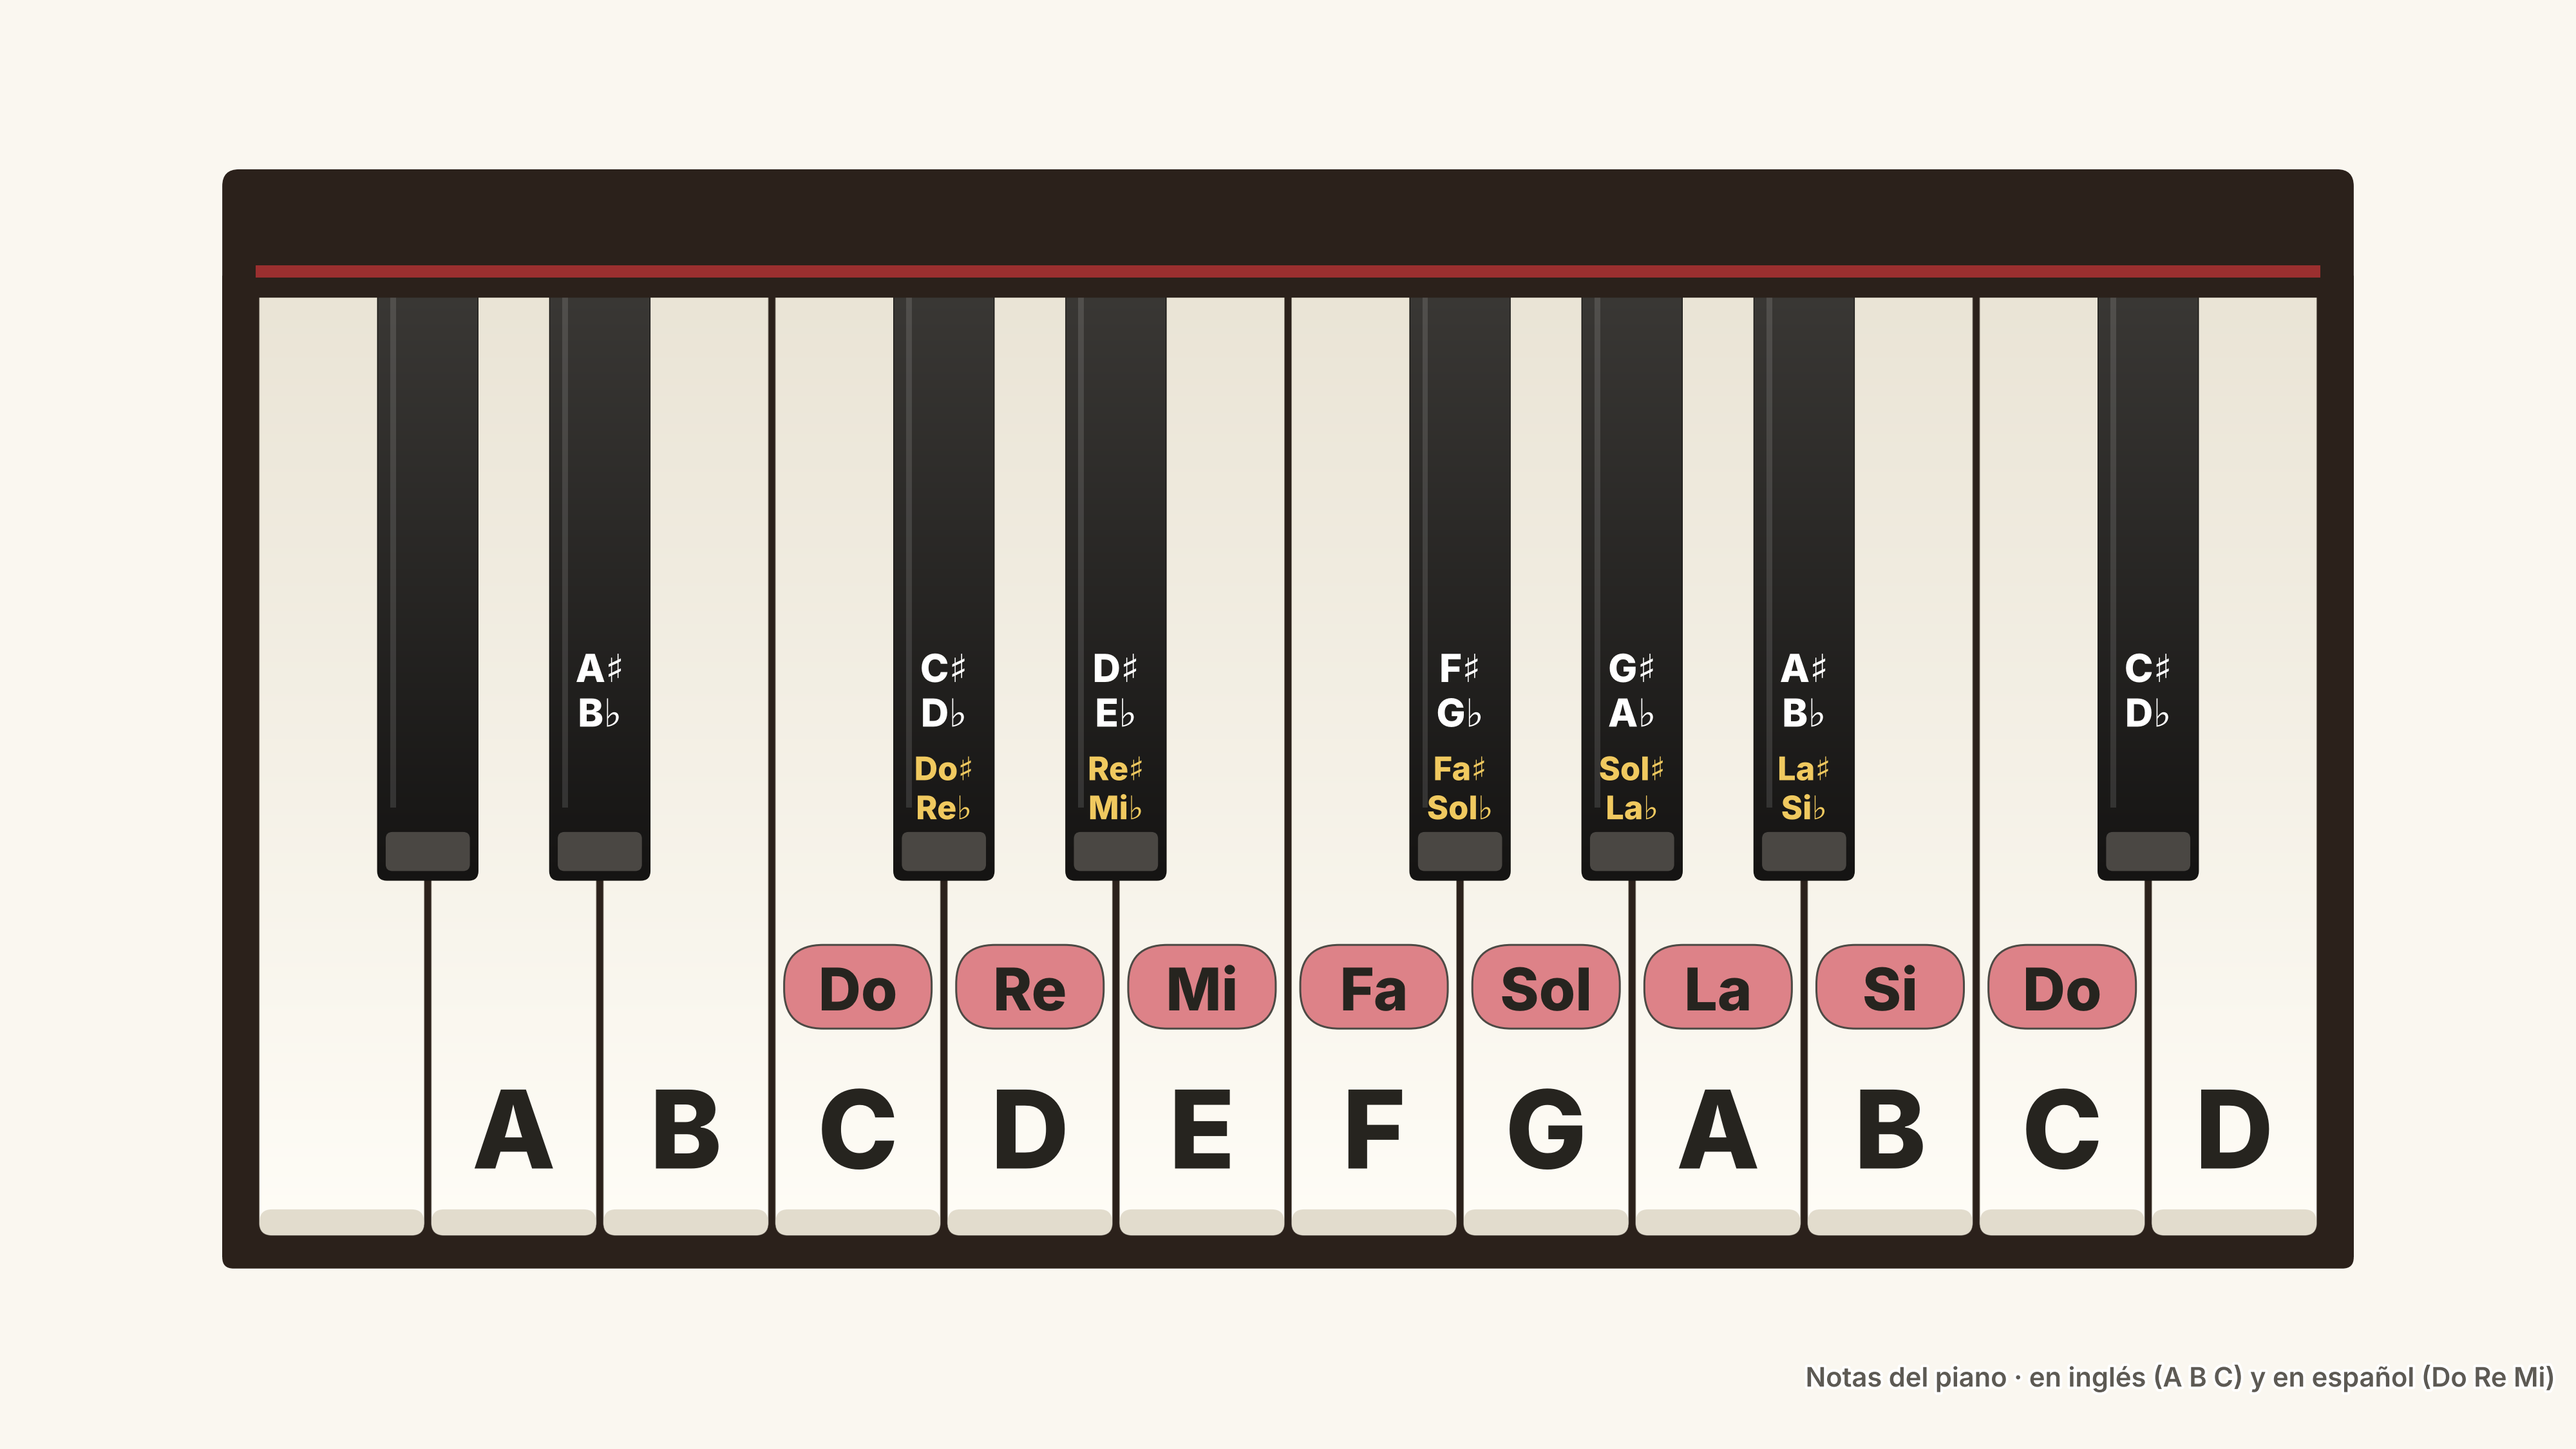
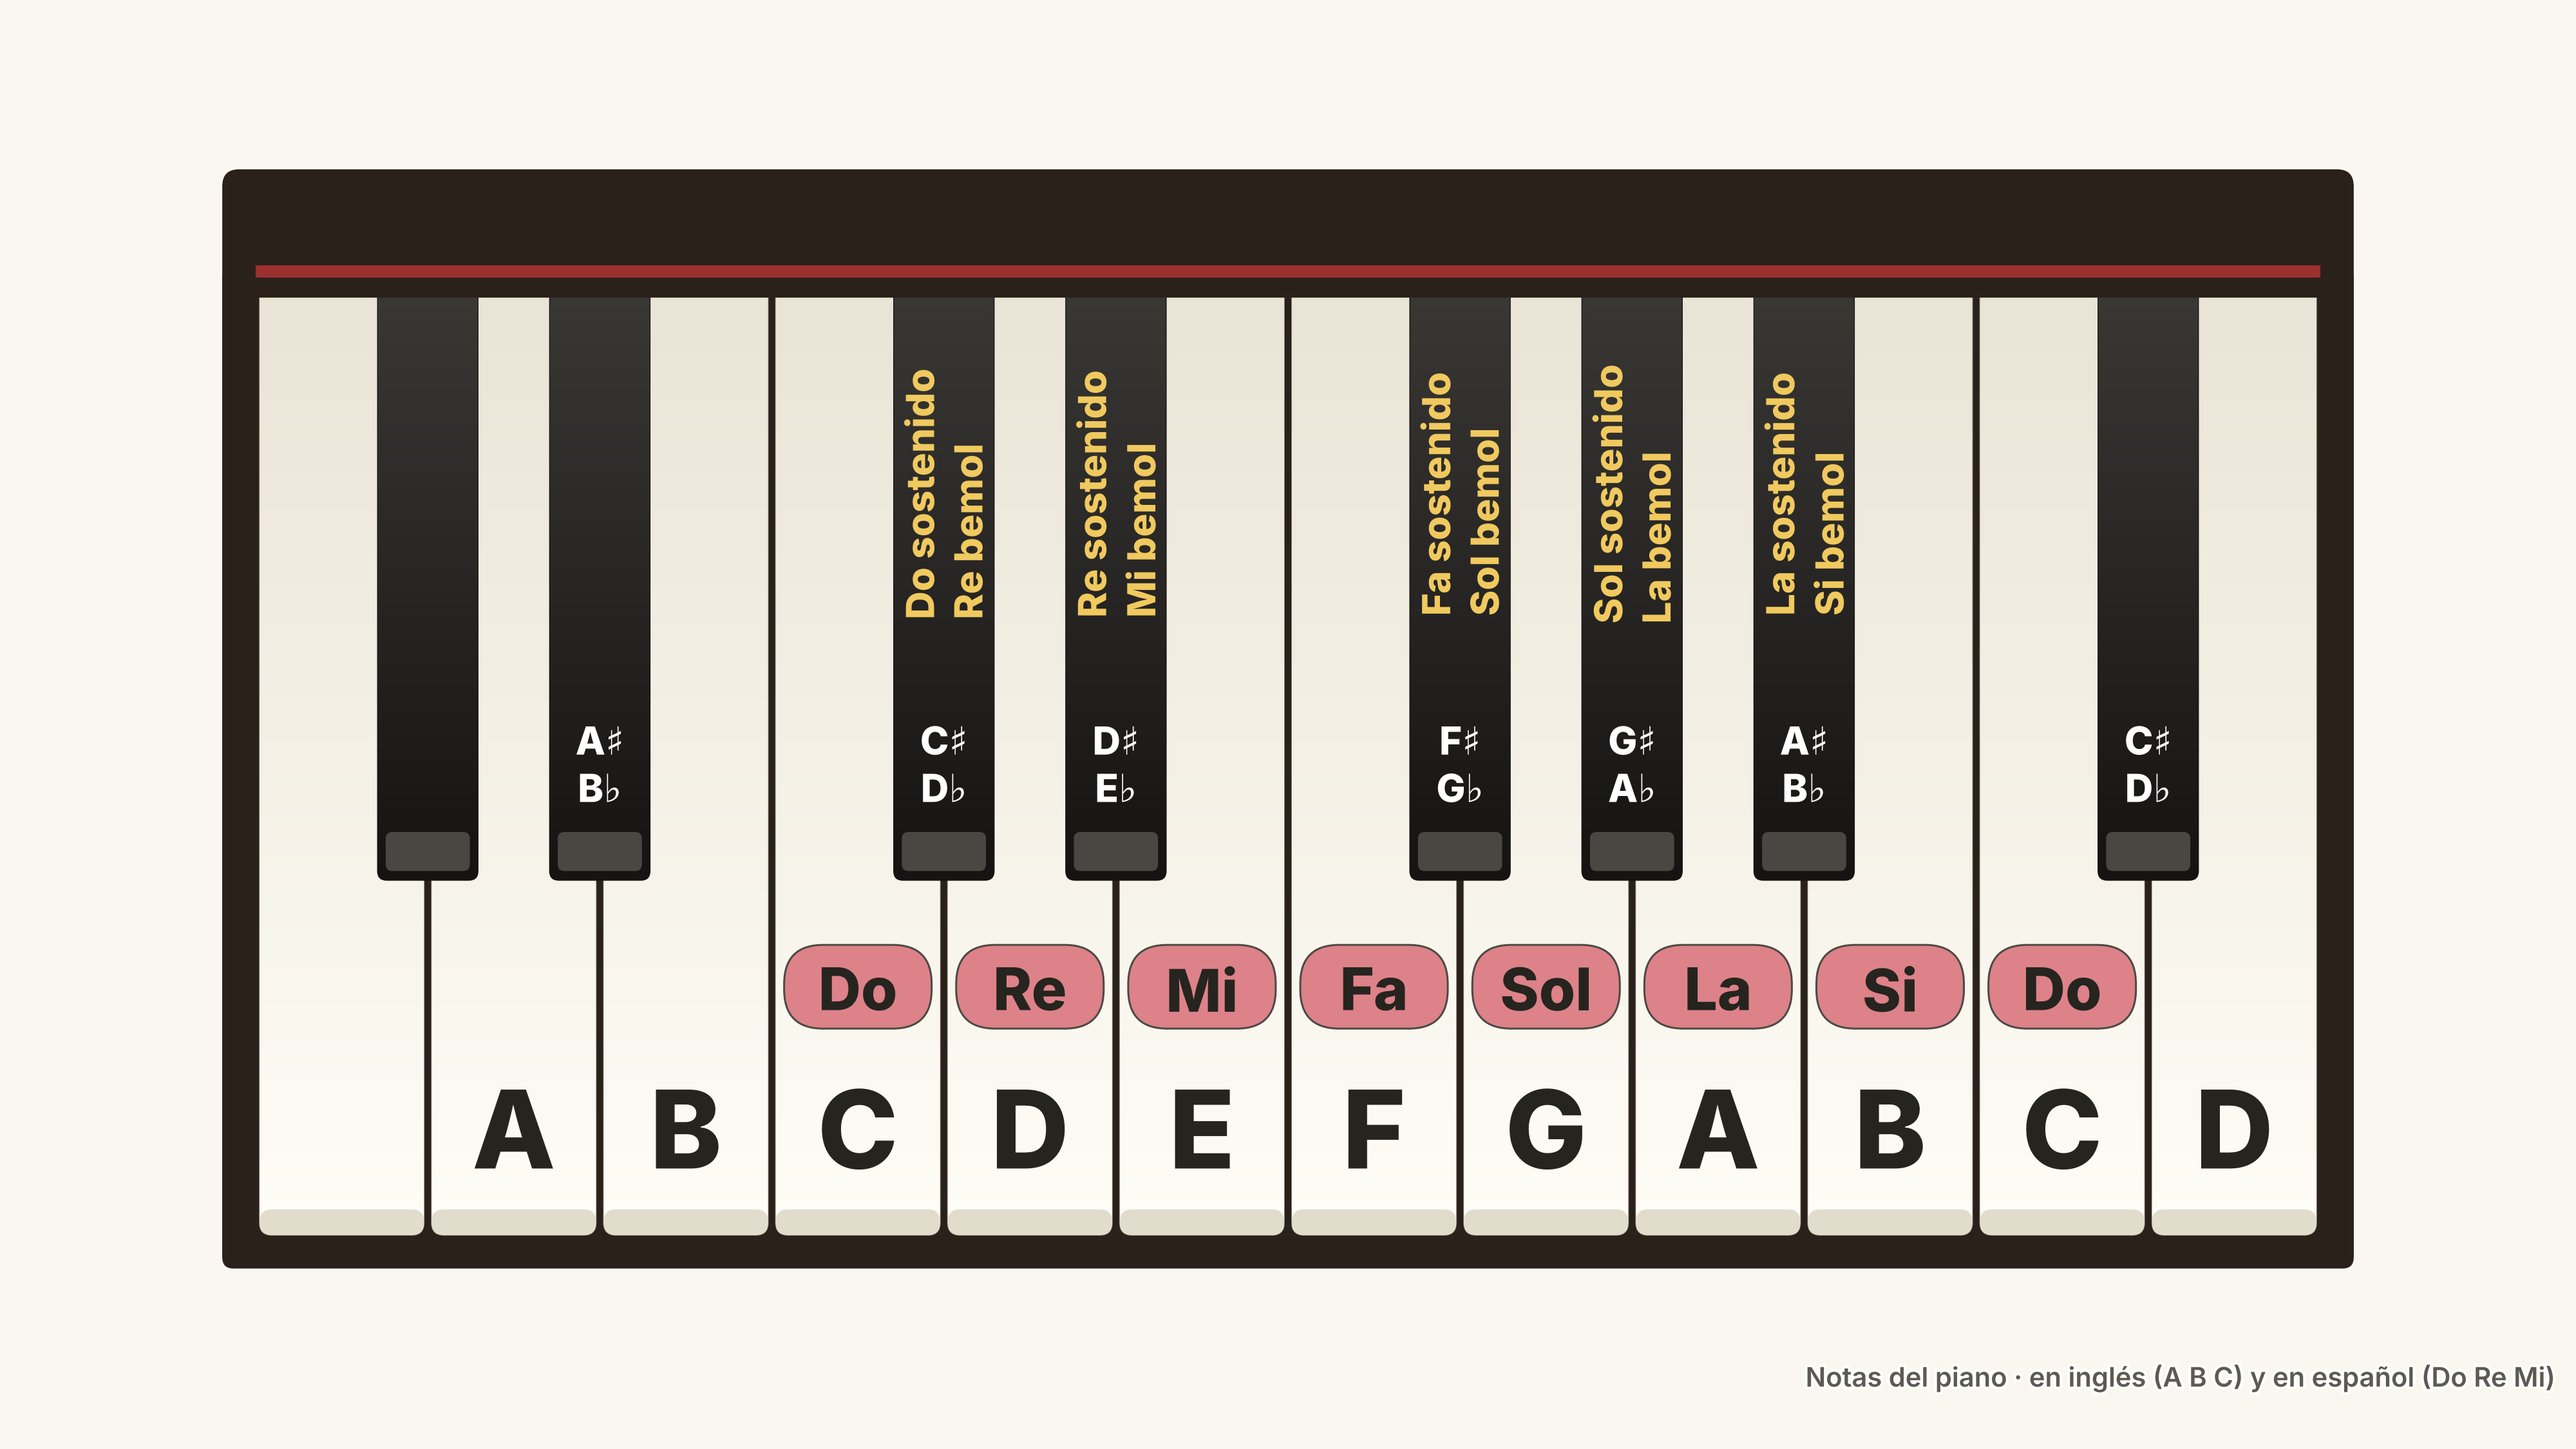
Piano: spell out Spanish black-key names (Do sostenido / Re bemol)
Running up the key at the same size as the letter names.

Claude-Session: https://claude.ai/code/session_01EDKfW2ymmeBjWjJB1i7hni

diff --git a/tvmaps/maps_piano.py b/tvmaps/maps_piano.py
@@ -5,7 +5,8 @@ uses the same canvas, fonts, footer and palette.
 The keyboard runs from G (unlabelled, so the first name you read is A) up to
 the D above the second C. Letters go on every key from that A onwards; the
 solfège covers one octave, Do to Do. Black keys carry both sharp and flat
-names, in solfège too where they fall inside that octave.
+names; inside that octave also the Spanish ones, spelled out ("Do sostenido",
+"Re bemol") and running up the key.
 
 Three designs share the geometry and labels: "clasico" (realistic ivory and
 ebony), "esquema" (flat, map-like outlines) and "colores" (one pastel per
@@ -79,14 +80,17 @@ def _font(weight):
 
 
 def _text(ax, x, y, s, size, weight, color, halo=None, halo_width=0,
-          zorder=10, scale=1.0):
+          zorder=10, scale=1.0, rotation=0, linespacing=1.2,
+          multialignment="center"):
     from matplotlib import patheffects as pe
 
     effects = ([pe.withStroke(linewidth=halo_width * scale, foreground=halo)]
                if halo else [])
     ax.text(x, y, s, fontproperties=_font(weight), fontsize=size * scale,
-            color=color,
-            ha="center", va="center", zorder=zorder, path_effects=effects)
+            color=color, ha="center", va="center", zorder=zorder,
+            rotation=rotation, linespacing=linespacing,
+            multialignment=multialignment,
+            path_effects=effects)
 
 
 def _key_patch(x, y, w, h, radius, **kw):
@@ -204,22 +208,22 @@ def _render(theme_name, footer):
             ax.add_patch(_key_patch(bx + 14, by + 16, bw - 28, 70, 12,
                                     facecolor="#4a4743", edgecolor="none",
                                     zorder=14))
-            ax.add_patch(Rectangle((bx + 22, by + 130), 10, blen - 170,
-                                   facecolor="#ffffff", alpha=0.12,
-                                   zorder=14))
 
         cx = bx + bw / 2
         upper = NEXT[note]
         if i + 1 > FIRST_LABEL:
-            _text(ax, cx, by + 380, f"{note}{SHARP}", 50, "extrabold",
+            _text(ax, cx, by + 250, f"{note}{SHARP}", 50, "extrabold",
                   t["black_text"], zorder=15, scale=scale)
-            _text(ax, cx, by + 300, f"{upper}{FLAT}", 50, "extrabold",
+            _text(ax, cx, by + 165, f"{upper}{FLAT}", 50, "extrabold",
                   t["black_text"], zorder=15, scale=scale)
         if SOLFEO_RANGE[0] <= i < SOLFEO_RANGE[1]:
-            _text(ax, cx, by + 200, f"{SOLFEO[note]}{SHARP}", 42,
-                  "extrabold", t["black_solfeo"], zorder=15, scale=scale)
-            _text(ax, cx, by + 130, f"{SOLFEO[upper]}{FLAT}", 42,
-                  "extrabold", t["black_solfeo"], zorder=15, scale=scale)
+            # Spelled out: "sostenido"/"bemol" are what you say aloud, and
+            # ♯/♭ give no hint of that. Too long to sit across a black key,
+            # so they run up it, at the same size as the letter names.
+            _text(ax, cx, (by + 330 + KEY_TOP - 30) / 2,
+                  f"{SOLFEO[note]} sostenido\n{SOLFEO[upper]} bemol", 50,
+                  "extrabold", t["black_solfeo"], zorder=15, scale=scale,
+                  rotation=90, linespacing=1.05, multialignment="left")
 
     draw.draw_footer(ax, frame, footer, side="right")
     return draw.save(fig, f"piano-{theme_name}")
